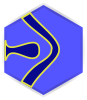
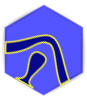
Rotated Gameboard and renamed gatetiles accordingly

diff --git a/src/main/kotlin/view/GameScene.kt b/src/main/kotlin/view/GameScene.kt
@@ -164,6 +164,8 @@ class GameScene(indigoApp: IndigoApplication) :
      */
     init {
         initializeGameBoardGrid()
+        hexagonGrid.rotate(60)
+        hexagonGrid.reposition(900, 340)
 
         //initialize reserveStack
         reserveStack.rotate(30)
@@ -347,18 +349,19 @@ class GameScene(indigoApp: IndigoApplication) :
         // Middle Tile
         hexagonGrid[0, 0]?.visual = ImageVisual("middletile.png")
         // Gate Tiles
-        //1 (oben und dann im Uhrzeigersinn die GateTiles)
-        hexagonGrid[4, -4]?.visual = ImageVisual("gatetile1.png")
+        //1
+        hexagonGrid[0, -4]?.visual = ImageVisual("gatetile1.png")
         //2
-        hexagonGrid[4, 0]?.visual = ImageVisual("gatetile2.png")
+        hexagonGrid[4, -4]?.visual = ImageVisual("gatetile2.png")
         //3
-        hexagonGrid[0, 4]?.visual = ImageVisual("gatetile3.png")
+        hexagonGrid[4, 0]?.visual = ImageVisual("gatetile3.png")
         //4
-        hexagonGrid[-4, 4]?.visual = ImageVisual("gatetile4.png")
+        hexagonGrid[0, 4]?.visual = ImageVisual("gatetile4.png")
         //5
-        hexagonGrid[-4, 0]?.visual = ImageVisual("gatetile5.png")
+        hexagonGrid[-4, 4]?.visual = ImageVisual("gatetile5.png")
         //6
-        hexagonGrid[0, -4]?.visual = ImageVisual("gatetile6.png")
+        hexagonGrid[-4, 0]?.visual = ImageVisual("gatetile6.png")
+
 
         //hides the unused hexagon components left and right
         for (i in 0..3) {
